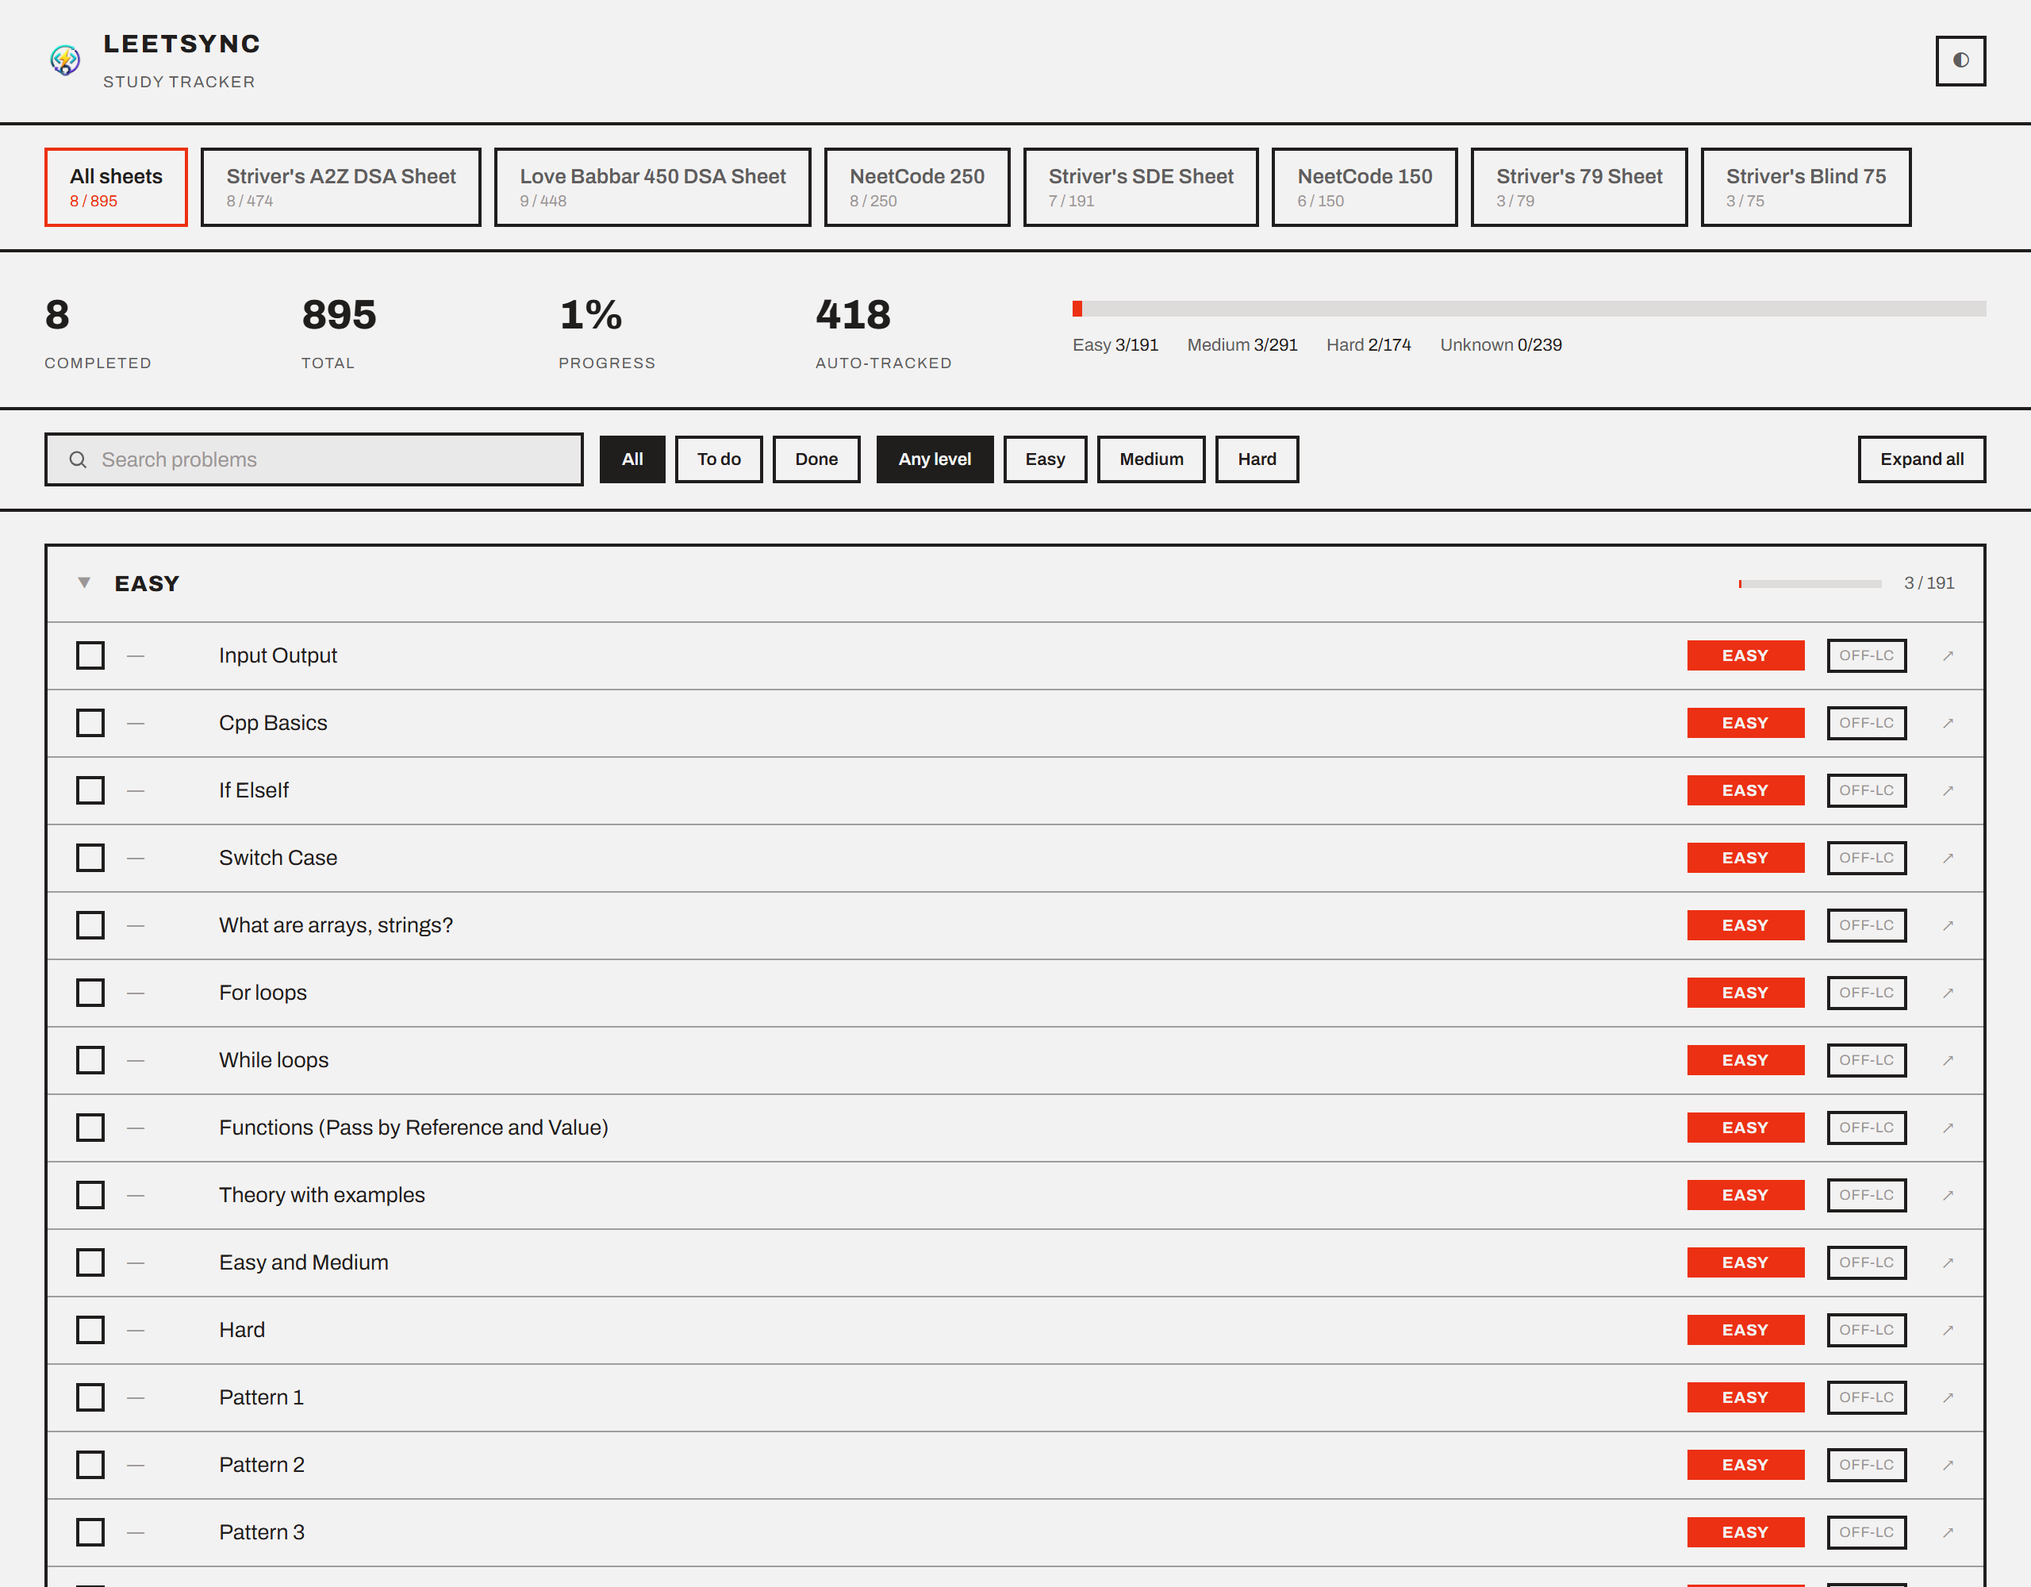
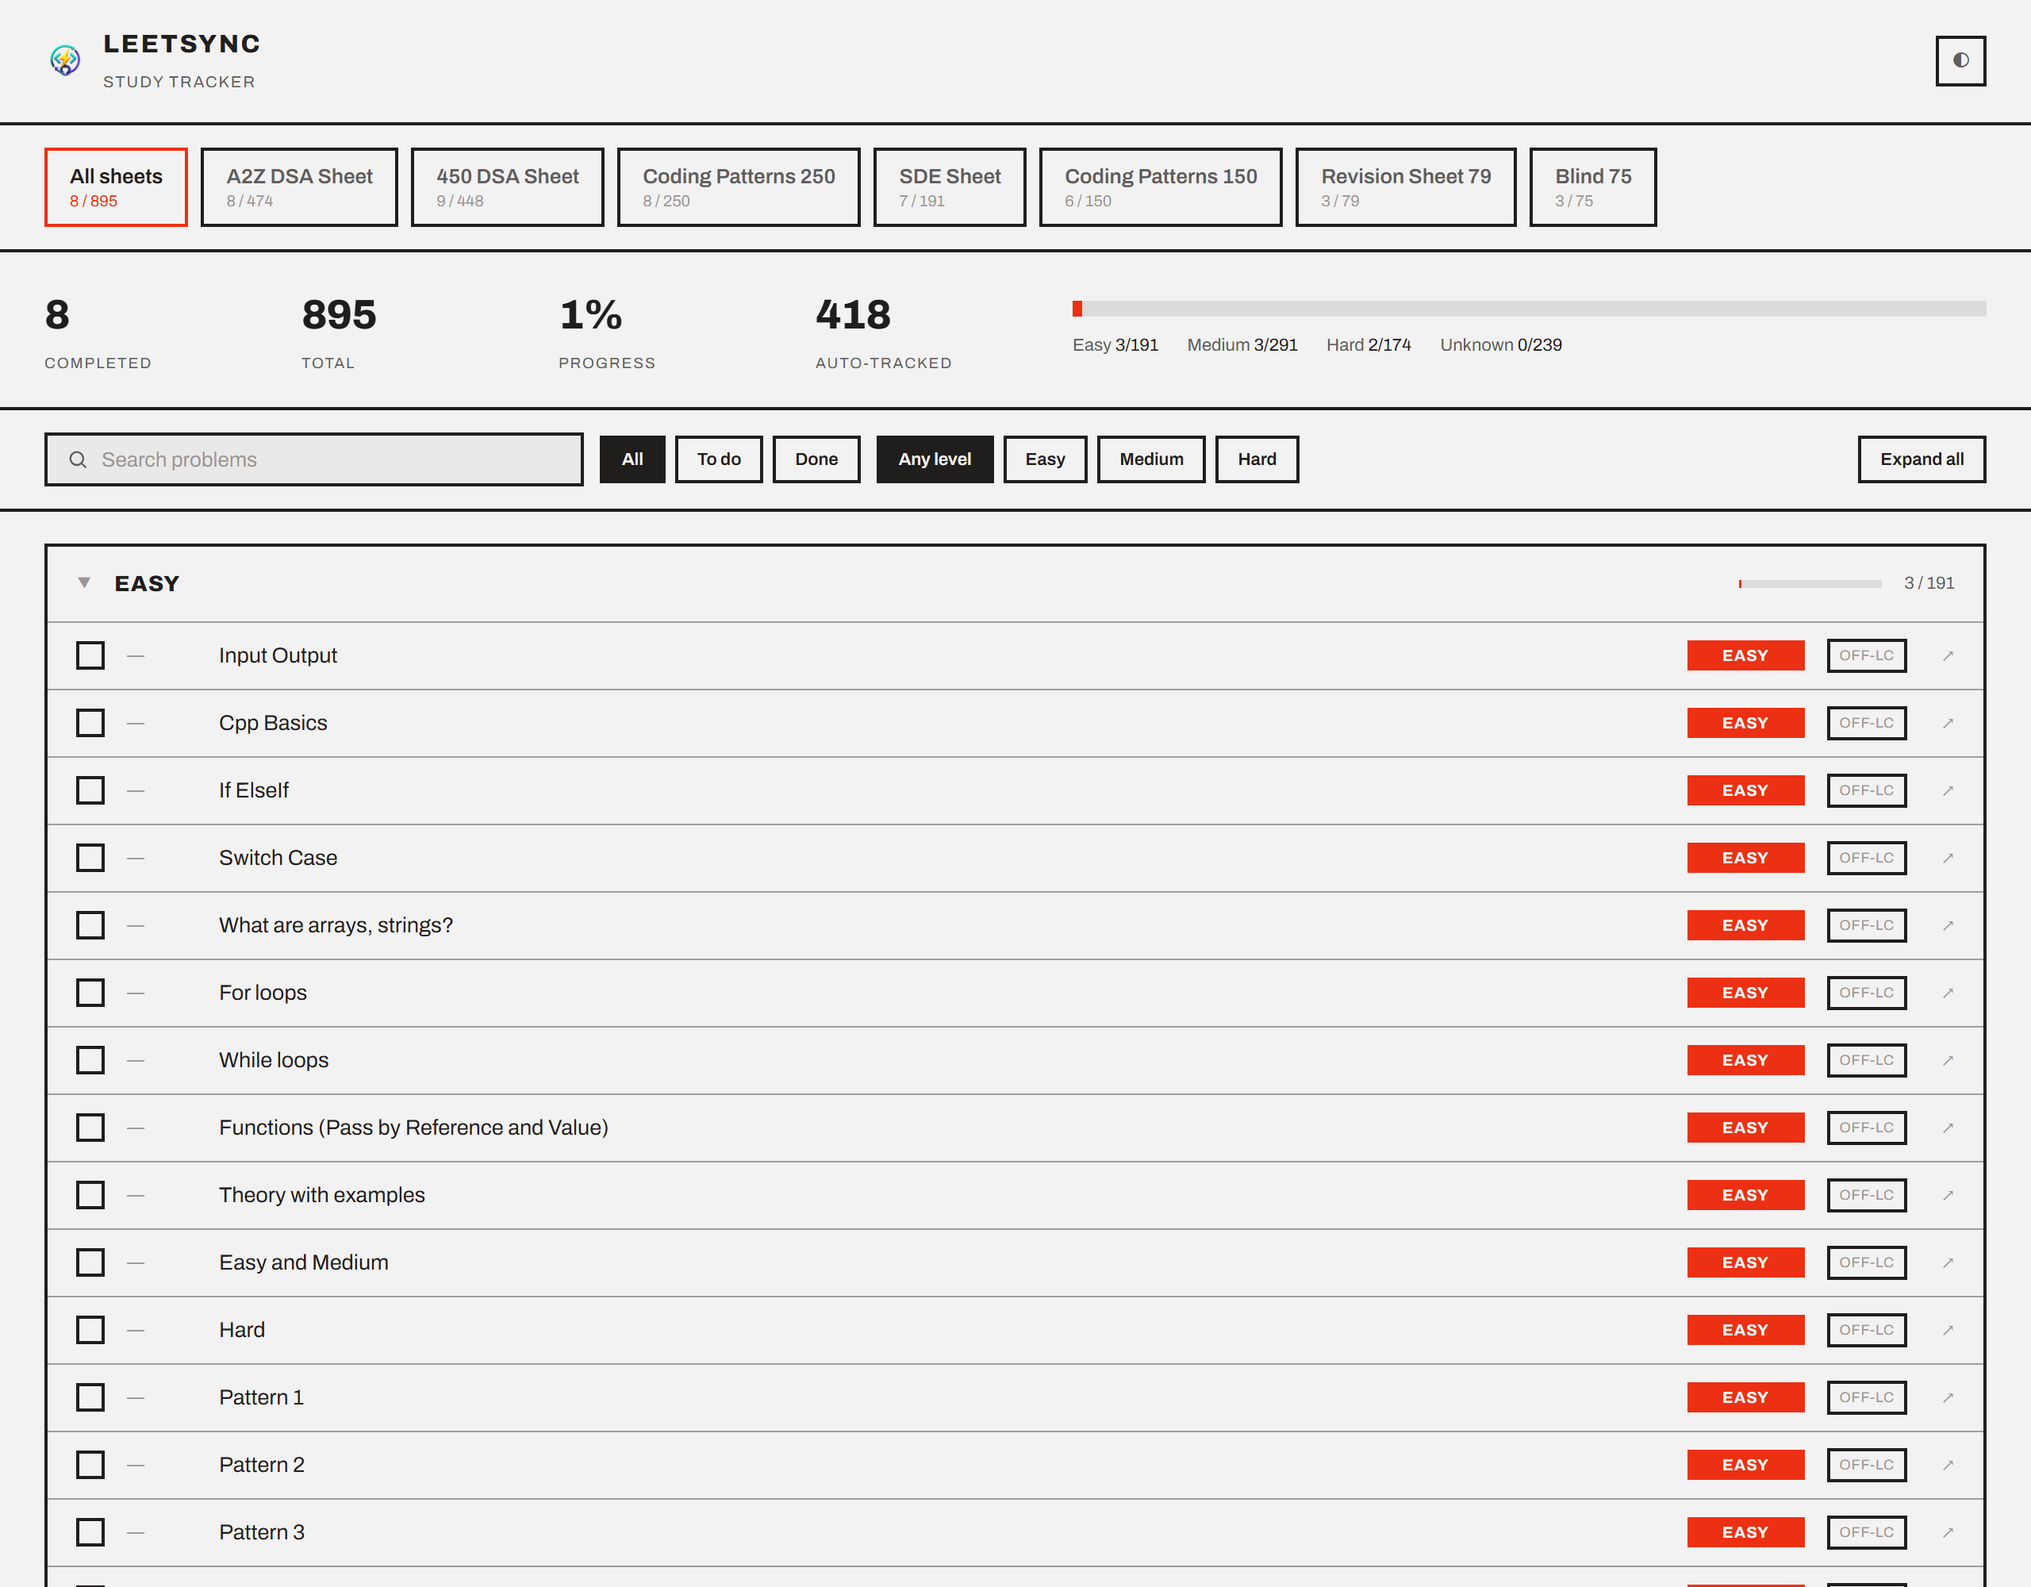
Drop the sheet authors' names, and retake the shots
The extension's sheet picker no longer carries them, so a page selling the
feature by those names describes a UI that does not exist. The marquee, the
feature card, the section intro and all seven sheet headings now use the same
labels the picker does.

The `source` link on each sheet is untouched: attribution belongs on the
sheet, not in the name of it.

Screenshots retaken, which also catches the sheets tab now opening at the
section you were working in rather than at the top.

Changed region(s): [[0.125, 0.093, 0.9375, 0.155]]

diff --git a/index.html b/index.html
@@ -171,10 +171,10 @@
     <div style="overflow:hidden;border-bottom:var(--bw) solid var(--bd-soft);background:var(--band);transition:background .45s">
       <div data-marquee style="display:flex;width:max-content;animation:ls-marquee 32s linear infinite">
         <div style="display:flex;align-items:center;gap:34px;padding:11px 17px;font-family:var(--f-mono);font-size:11px;letter-spacing:.18em;text-transform:uppercase;color:var(--tx4);white-space:nowrap">
-          <span>Striver A2Z</span><span style="color:var(--ac)">◆</span><span>Striver SDE</span><span style="color:var(--ac)">◆</span><span>Striver 79</span><span style="color:var(--ac)">◆</span><span>Blind 75</span><span style="color:var(--ac)">◆</span><span>Love Babbar 450</span><span style="color:var(--ac)">◆</span><span>NeetCode 150</span><span style="color:var(--ac)">◆</span><span>NeetCode 250</span><span style="color:var(--ac)">◆</span>
+          <span>A2Z DSA Sheet</span><span style="color:var(--ac)">◆</span><span>SDE Sheet</span><span style="color:var(--ac)">◆</span><span>Revision Sheet 79</span><span style="color:var(--ac)">◆</span><span>Blind 75</span><span style="color:var(--ac)">◆</span><span>450 DSA Sheet</span><span style="color:var(--ac)">◆</span><span>Coding Patterns 150</span><span style="color:var(--ac)">◆</span><span>Coding Patterns 250</span><span style="color:var(--ac)">◆</span>
         </div>
         <div aria-hidden="true" style="display:flex;align-items:center;gap:34px;padding:11px 17px;font-family:var(--f-mono);font-size:11px;letter-spacing:.18em;text-transform:uppercase;color:var(--tx4);white-space:nowrap">
-          <span>Striver A2Z</span><span style="color:var(--ac)">◆</span><span>Striver SDE</span><span style="color:var(--ac)">◆</span><span>Striver 79</span><span style="color:var(--ac)">◆</span><span>Blind 75</span><span style="color:var(--ac)">◆</span><span>Love Babbar 450</span><span style="color:var(--ac)">◆</span><span>NeetCode 150</span><span style="color:var(--ac)">◆</span><span>NeetCode 250</span><span style="color:var(--ac)">◆</span>
+          <span>A2Z DSA Sheet</span><span style="color:var(--ac)">◆</span><span>SDE Sheet</span><span style="color:var(--ac)">◆</span><span>Revision Sheet 79</span><span style="color:var(--ac)">◆</span><span>Blind 75</span><span style="color:var(--ac)">◆</span><span>450 DSA Sheet</span><span style="color:var(--ac)">◆</span><span>Coding Patterns 150</span><span style="color:var(--ac)">◆</span><span>Coding Patterns 250</span><span style="color:var(--ac)">◆</span>
         </div>
       </div>
     </div>
@@ -224,7 +224,7 @@
             <span style="font-family:var(--f-mono);font-size:10px;letter-spacing:.18em;text-transform:uppercase;color:var(--tx4)">895 problems</span>
           </div>
           <h3 style="font-family:var(--f-head);font-weight:var(--head-w);letter-spacing:var(--head-ls);text-transform:var(--head-tt);margin:0 0 10px;line-height:1.15;font-size:20px">Seven study sheets</h3>
-          <p style="color:var(--tx3);font-size:14.5px;margin:0;text-wrap:pretty">Striver A2Z, SDE, 79 and Blind 75, Love Babbar 450, NeetCode 150 and
+          <p style="color:var(--tx3);font-size:14.5px;margin:0;text-wrap:pretty">Seven sheets covering 895 distinct problems, matched by number so one
             250 — 895 problems after de-duplication. Solving one ticks it
             everywhere it appears.</p>
         </article>
@@ -659,7 +659,7 @@
         <div>
           <span style="display:inline-block;font-family:var(--f-mono);font-size:11px;letter-spacing:.16em;text-transform:uppercase;color:var(--kick-c);font-weight:var(--kick-w);margin-bottom:12px">Tab 3 of 5</span>
           <h3 style="font-family:var(--f-head);font-weight:var(--head-w);letter-spacing:var(--head-ls);text-transform:var(--head-tt);margin:0;line-height:1.08;font-size:clamp(24px,3vw,34px)">Seven study sheets, ticking themselves</h3>
-          <p style="color:var(--tx3);font-size:16px;line-height:1.6;margin:15px 0 6px;text-wrap:pretty">Striver A2Z, Striver SDE, Striver 79, Blind 75, Love Babbar 450, NeetCode 150 and NeetCode 250 &mdash; 1,667 rows over 895 distinct problems, shipped inside the extension rather than fetched, so they work offline and cannot change under you.</p>
+          <p style="color:var(--tx3);font-size:16px;line-height:1.6;margin:15px 0 6px;text-wrap:pretty">Seven sheets &mdash; 1,667 rows over 895 distinct problems, shipped inside the extension rather than fetched, so they work offline and cannot change under you. Each keeps its author&rsquo;s own sections, and links back to the original.</p>
           <ul style="list-style:none;padding:0;margin:14px 0 0">
             <li style="display:grid;grid-template-columns:auto minmax(0,1fr);gap:15px;align-items:start;padding:15px 0;border-top:1px solid var(--bd-soft)">
               <span style="font-family:var(--f-mono);font-size:10.5px;letter-spacing:.1em;color:var(--ac);padding-top:4px;transition:color .45s">01</span>
@@ -840,7 +840,7 @@
         <article data-reveal="up" data-magnet style="position:relative;isolation:isolate;overflow:hidden;padding:22px 24px 24px;background:var(--card);border:var(--bw) solid var(--bd);border-radius:var(--r-card);box-shadow:var(--card-sh);transition:opacity .7s,transform .35s cubic-bezier(.2,.7,.2,1),border-color .3s,box-shadow .3s,background .45s;will-change:transform">
           <span data-sweep style="position:absolute;left:0;top:0;height:3px;width:0;background:var(--ac);transition:width .55s cubic-bezier(.2,.7,.2,1)"></span>
           <div style="display:flex;align-items:baseline;justify-content:space-between;gap:14px;flex-wrap:wrap">
-            <h3 style="font-family:var(--f-head);font-weight:var(--head-w);letter-spacing:var(--head-ls);text-transform:var(--head-tt);margin:0;font-size:17px;line-height:1.2">Striver's A2Z DSA Sheet</h3>
+            <h3 style="font-family:var(--f-head);font-weight:var(--head-w);letter-spacing:var(--head-ls);text-transform:var(--head-tt);margin:0;font-size:17px;line-height:1.2">A2Z DSA Sheet</h3>
             <span style="font-family:var(--f-mono);font-size:19px;color:var(--ac);transition:color .45s">474</span>
           </div>
           <div style="display:block;height:6px;margin:14px 0 10px;background:var(--hover);border-radius:calc(var(--r-sm) / 2);overflow:hidden;transition:background .45s">
@@ -853,7 +853,7 @@
         <article data-reveal="up" data-reveal-delay="60" data-magnet style="position:relative;isolation:isolate;overflow:hidden;padding:22px 24px 24px;background:var(--card);border:var(--bw) solid var(--bd);border-radius:var(--r-card);box-shadow:var(--card-sh);transition:opacity .7s,transform .35s cubic-bezier(.2,.7,.2,1),border-color .3s,box-shadow .3s,background .45s;will-change:transform">
           <span data-sweep style="position:absolute;left:0;top:0;height:3px;width:0;background:var(--ac);transition:width .55s cubic-bezier(.2,.7,.2,1)"></span>
           <div style="display:flex;align-items:baseline;justify-content:space-between;gap:14px;flex-wrap:wrap">
-            <h3 style="font-family:var(--f-head);font-weight:var(--head-w);letter-spacing:var(--head-ls);text-transform:var(--head-tt);margin:0;font-size:17px;line-height:1.2">Love Babbar 450 DSA Sheet</h3>
+            <h3 style="font-family:var(--f-head);font-weight:var(--head-w);letter-spacing:var(--head-ls);text-transform:var(--head-tt);margin:0;font-size:17px;line-height:1.2">450 DSA Sheet</h3>
             <span style="font-family:var(--f-mono);font-size:19px;color:var(--ac);transition:color .45s">448</span>
           </div>
           <div style="display:block;height:6px;margin:14px 0 10px;background:var(--hover);border-radius:calc(var(--r-sm) / 2);overflow:hidden;transition:background .45s">
@@ -866,7 +866,7 @@
         <article data-reveal="up" data-reveal-delay="120" data-magnet style="position:relative;isolation:isolate;overflow:hidden;padding:22px 24px 24px;background:var(--card);border:var(--bw) solid var(--bd);border-radius:var(--r-card);box-shadow:var(--card-sh);transition:opacity .7s,transform .35s cubic-bezier(.2,.7,.2,1),border-color .3s,box-shadow .3s,background .45s;will-change:transform">
           <span data-sweep style="position:absolute;left:0;top:0;height:3px;width:0;background:var(--ac);transition:width .55s cubic-bezier(.2,.7,.2,1)"></span>
           <div style="display:flex;align-items:baseline;justify-content:space-between;gap:14px;flex-wrap:wrap">
-            <h3 style="font-family:var(--f-head);font-weight:var(--head-w);letter-spacing:var(--head-ls);text-transform:var(--head-tt);margin:0;font-size:17px;line-height:1.2">NeetCode 250</h3>
+            <h3 style="font-family:var(--f-head);font-weight:var(--head-w);letter-spacing:var(--head-ls);text-transform:var(--head-tt);margin:0;font-size:17px;line-height:1.2">Coding Patterns 250</h3>
             <span style="font-family:var(--f-mono);font-size:19px;color:var(--ac);transition:color .45s">250</span>
           </div>
           <div style="display:block;height:6px;margin:14px 0 10px;background:var(--hover);border-radius:calc(var(--r-sm) / 2);overflow:hidden;transition:background .45s">
@@ -879,7 +879,7 @@
         <article data-reveal="up" data-reveal-delay="180" data-magnet style="position:relative;isolation:isolate;overflow:hidden;padding:22px 24px 24px;background:var(--card);border:var(--bw) solid var(--bd);border-radius:var(--r-card);box-shadow:var(--card-sh);transition:opacity .7s,transform .35s cubic-bezier(.2,.7,.2,1),border-color .3s,box-shadow .3s,background .45s;will-change:transform">
           <span data-sweep style="position:absolute;left:0;top:0;height:3px;width:0;background:var(--ac);transition:width .55s cubic-bezier(.2,.7,.2,1)"></span>
           <div style="display:flex;align-items:baseline;justify-content:space-between;gap:14px;flex-wrap:wrap">
-            <h3 style="font-family:var(--f-head);font-weight:var(--head-w);letter-spacing:var(--head-ls);text-transform:var(--head-tt);margin:0;font-size:17px;line-height:1.2">Striver's SDE Sheet</h3>
+            <h3 style="font-family:var(--f-head);font-weight:var(--head-w);letter-spacing:var(--head-ls);text-transform:var(--head-tt);margin:0;font-size:17px;line-height:1.2">SDE Sheet</h3>
             <span style="font-family:var(--f-mono);font-size:19px;color:var(--ac);transition:color .45s">191</span>
           </div>
           <div style="display:block;height:6px;margin:14px 0 10px;background:var(--hover);border-radius:calc(var(--r-sm) / 2);overflow:hidden;transition:background .45s">
@@ -892,7 +892,7 @@
         <article data-reveal="up" data-reveal-delay="240" data-magnet style="position:relative;isolation:isolate;overflow:hidden;padding:22px 24px 24px;background:var(--card);border:var(--bw) solid var(--bd);border-radius:var(--r-card);box-shadow:var(--card-sh);transition:opacity .7s,transform .35s cubic-bezier(.2,.7,.2,1),border-color .3s,box-shadow .3s,background .45s;will-change:transform">
           <span data-sweep style="position:absolute;left:0;top:0;height:3px;width:0;background:var(--ac);transition:width .55s cubic-bezier(.2,.7,.2,1)"></span>
           <div style="display:flex;align-items:baseline;justify-content:space-between;gap:14px;flex-wrap:wrap">
-            <h3 style="font-family:var(--f-head);font-weight:var(--head-w);letter-spacing:var(--head-ls);text-transform:var(--head-tt);margin:0;font-size:17px;line-height:1.2">NeetCode 150</h3>
+            <h3 style="font-family:var(--f-head);font-weight:var(--head-w);letter-spacing:var(--head-ls);text-transform:var(--head-tt);margin:0;font-size:17px;line-height:1.2">Coding Patterns 150</h3>
             <span style="font-family:var(--f-mono);font-size:19px;color:var(--ac);transition:color .45s">150</span>
           </div>
           <div style="display:block;height:6px;margin:14px 0 10px;background:var(--hover);border-radius:calc(var(--r-sm) / 2);overflow:hidden;transition:background .45s">
@@ -905,7 +905,7 @@
         <article data-reveal="up" data-reveal-delay="300" data-magnet style="position:relative;isolation:isolate;overflow:hidden;padding:22px 24px 24px;background:var(--card);border:var(--bw) solid var(--bd);border-radius:var(--r-card);box-shadow:var(--card-sh);transition:opacity .7s,transform .35s cubic-bezier(.2,.7,.2,1),border-color .3s,box-shadow .3s,background .45s;will-change:transform">
           <span data-sweep style="position:absolute;left:0;top:0;height:3px;width:0;background:var(--ac);transition:width .55s cubic-bezier(.2,.7,.2,1)"></span>
           <div style="display:flex;align-items:baseline;justify-content:space-between;gap:14px;flex-wrap:wrap">
-            <h3 style="font-family:var(--f-head);font-weight:var(--head-w);letter-spacing:var(--head-ls);text-transform:var(--head-tt);margin:0;font-size:17px;line-height:1.2">Striver's 79 Sheet</h3>
+            <h3 style="font-family:var(--f-head);font-weight:var(--head-w);letter-spacing:var(--head-ls);text-transform:var(--head-tt);margin:0;font-size:17px;line-height:1.2">Revision Sheet 79</h3>
             <span style="font-family:var(--f-mono);font-size:19px;color:var(--ac);transition:color .45s">79</span>
           </div>
           <div style="display:block;height:6px;margin:14px 0 10px;background:var(--hover);border-radius:calc(var(--r-sm) / 2);overflow:hidden;transition:background .45s">
@@ -918,7 +918,7 @@
         <article data-reveal="up" data-reveal-delay="360" data-magnet style="position:relative;isolation:isolate;overflow:hidden;padding:22px 24px 24px;background:var(--card);border:var(--bw) solid var(--bd);border-radius:var(--r-card);box-shadow:var(--card-sh);transition:opacity .7s,transform .35s cubic-bezier(.2,.7,.2,1),border-color .3s,box-shadow .3s,background .45s;will-change:transform">
           <span data-sweep style="position:absolute;left:0;top:0;height:3px;width:0;background:var(--ac);transition:width .55s cubic-bezier(.2,.7,.2,1)"></span>
           <div style="display:flex;align-items:baseline;justify-content:space-between;gap:14px;flex-wrap:wrap">
-            <h3 style="font-family:var(--f-head);font-weight:var(--head-w);letter-spacing:var(--head-ls);text-transform:var(--head-tt);margin:0;font-size:17px;line-height:1.2">Striver's Blind 75</h3>
+            <h3 style="font-family:var(--f-head);font-weight:var(--head-w);letter-spacing:var(--head-ls);text-transform:var(--head-tt);margin:0;font-size:17px;line-height:1.2">Blind 75</h3>
             <span style="font-family:var(--f-mono);font-size:19px;color:var(--ac);transition:color .45s">75</span>
           </div>
           <div style="display:block;height:6px;margin:14px 0 10px;background:var(--hover);border-radius:calc(var(--r-sm) / 2);overflow:hidden;transition:background .45s">
